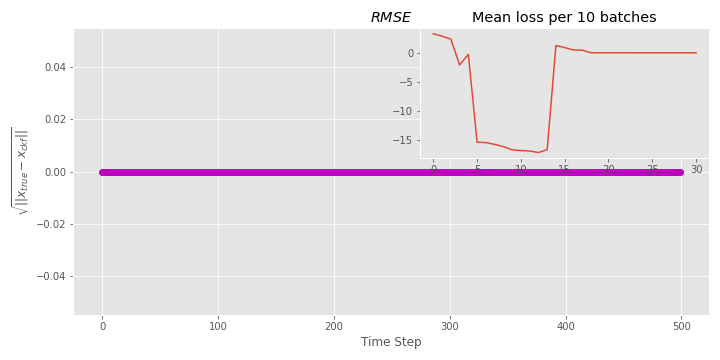
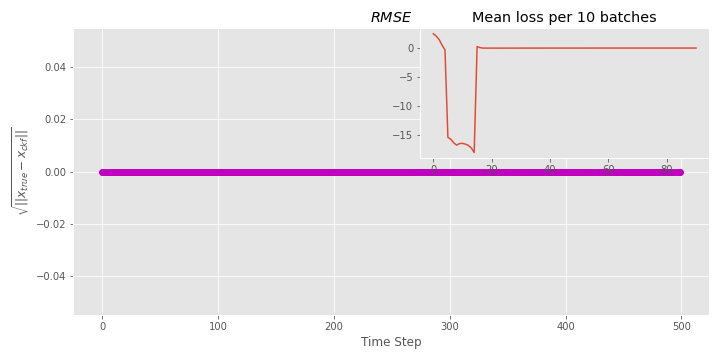
working benchmarks methods

diff --git a/AIRL_single_agent.py b/AIRL_single_agent.py
@@ -78,7 +78,7 @@ parser.add_argument('--frame_skip',default=4,type=int, help='Save the images at 
 parser.add_argument('--dt_ckf', default=0.1,type=float, help='Frequency at which the radar receives measurements and updated Cubature Kalman Filter')
 parser.add_argument('--dt_control', default=0.1,type=float,help='Frequency at which the control optimization problem occurs with MPPI')
 parser.add_argument('--N_radar',default=1,type=int,help="The number of radars in the experiment")
-parser.add_argument("--N_steps",default=200,type=int,help="The number of steps in the experiment. Total real time duration of experiment is N_steps x dt_ckf")
+parser.add_argument("--N_steps",default=500,type=int,help="The number of steps in the experiment. Total real time duration of experiment is N_steps x dt_ckf")
 parser.add_argument('--results_savepath', default="results",type=str, help='Folder to save bigger results folder')
 parser.add_argument('--experiment_name', default="experiment",type=str, help='Name of folder to save temporary images to make GIFs')
 parser.add_argument('--move_radars', action=argparse.BooleanOptionalAction,default=True,help='Do you wish to allow the radars to move? --move_radars for yes --no-move_radars for no')
@@ -87,6 +87,7 @@ parser.add_argument('--tail_length',default=10,type=int,help="The length of the 
 parser.add_argument('--save_images', action=argparse.BooleanOptionalAction,default=True,help='Do you wish to saves images/gifs? --save_images for yes --no-save_images for no')
 parser.add_argument('--fim_method_policy', default="SFIM_NN",type=str, help='FIM Calculation [SFIM,PFIM]')
 parser.add_argument('--fim_method_demo', default="SFIM",type=str, help='FIM Calculation [SFIM,PFIM]')
+parser.add_argument('--gail', default=True,type=bool, help='gail metod flag')
 
 # ==================== RADAR CONFIGURATION ======================== #
 parser.add_argument('--fc', default=1e8,type=float, help='Radar Signal Carrier Frequency (Hz)')
@@ -172,7 +173,7 @@ variables = cost_f.init(init_rng, jnp.ones((1,state_shape[0])))
 params = variables['params']
 #params['Dense_0']['bias']=jnp.ones(params['Dense_0']['bias'].shape)
 #params['Dense_0']['kernel']=jnp.identity(params['Dense_0']['kernel'].shape[0])
-tx = optax.adam(learning_rate=1e-3)
+tx = optax.adam(learning_rate=1e-4)
 state_train=train_state.TrainState.create(apply_fn=cost_f.apply, params=params, tx=tx)
 
 mean_rewards = []

diff --git a/experts/P_MPPI.py b/experts/P_MPPI.py
@@ -175,7 +175,7 @@ class P_MPPI:
             IM_fn_update = IM_fn
 
 
-        MPC_obj = MPC_decorator(IM_fn=IM_fn,kinematic_model=kinematic_model,dt=args.dt_control,gamma=args.gamma,method=mpc_method,state_train=state_train,thetas=thetas)
+        MPC_obj = MPC_decorator(IM_fn=IM_fn,kinematic_model=kinematic_model,dt=args.dt_control,gamma=args.gamma,method=mpc_method,state_train=state_train,thetas=thetas,gail=args.gail)
         #MPC_obj = MPC_decorator(IM_fn=IM_fn,kinematic_model=kinematic_model,dt=args.dt_control,gamma=args.gamma,method=mpc_method)
         MPPI_scores = MPPI_scores_wrapper(MPC_obj)
 
@@ -191,7 +191,7 @@ class P_MPPI:
         chis = jax.random.uniform(key,shape=(ps.shape[0],1),minval=-jnp.pi,maxval=jnp.pi) #jnp.tile(0., (ps.shape[0], 1, 1))
         # dt_controls = jnp.tile(dt_control, (N, 1))
 
-        collision_penalty_vmap = jit( vmap(collision_penalty, in_axes=(0, None, None)))
+        collision_penalty_vmap = jit( vmap(collision_penalty, in_axes=(0, None, None,None,None,None)))
         self_collision_penalty_vmap = jit(vmap(self_collision_penalty, in_axes=(0, None)))
         speed_penalty_vmap = jit(vmap(speed_penalty, in_axes=(0, None)))
 
@@ -292,9 +292,14 @@ class P_MPPI:
                     
 
                     mppi_score_end = time()
+                    cost_collision_r2t = collision_penalty_vmap(radar_states_MPPI[...,1:args.horizon+1,:], target_states_rollout,
+                                           demo_x_min,demo_x_max,demo_y_min,demo_y_max)
+
+                    cost_collision_r2t = jnp.sum((cost_collision_r2t * args.gamma**(jnp.arange(args.horizon))) / jnp.sum(args.gamma**jnp.arange(args.horizon)),axis=-1)
+
                     
                     #cost_MPPI = args.alpha1*cost_trajectory + args.alpha2*cost_collision_r2t + args.alpha3 * cost_collision_r2r * args.temperature * (1-args.alpha4) * cost_control + args.alpha5*cost_speed
-                    cost_MPPI = args.alpha1*cost_trajectory
+                    cost_MPPI = args.alpha1*cost_trajectory + args.alpha2*cost_collision_r2t
 
                     weights = weight_fn(cost_MPPI)
 

diff --git a/src_range/FIM_new/generate_demo_fn.py b/src_range/FIM_new/generate_demo_fn.py
@@ -825,18 +825,18 @@ def generate_demo_MPPI_single(args,state_train):
 
        np.savetxt(os.path.join(args.results_savepath,f'rmse_{args.seed}.csv'), np.c_[np.arange(1,args.N_steps+1),target_state_mse], delimiter=',',header="k,rmse",comments='')
 
-       if args.save_images:
-           visualize_target_mse(target_state_mse,fig_mse,axes_mse,args.results_savepath,filename="target_mse")
+       # if args.save_images:
+       #     visualize_target_mse(target_state_mse,fig_mse,axes_mse,args.results_savepath,filename="target_mse")
 
-           images = [imageio.imread(file) for file in imgs_main]
-           imageio.mimsave(os.path.join(args.results_savepath, f'MPPI_MPC_AIS={args.AIS_method}_FIM={args.fim_method_demo}.gif'), images, duration=0.1)
+       #     images = [imageio.imread(file) for file in imgs_main]
+       #     imageio.mimsave(os.path.join(args.results_savepath, f'MPPI_MPC_AIS={args.AIS_method}_FIM={args.fim_method_demo}.gif'), images, duration=0.1)
 
-           images = [imageio.imread(file) for file in imgs_control]
-           imageio.mimsave(os.path.join(args.results_savepath, f'MPPI_Control_AIS={args.AIS_method}.gif'), images, duration=0.1)
+       #     images = [imageio.imread(file) for file in imgs_control]
+       #     imageio.mimsave(os.path.join(args.results_savepath, f'MPPI_Control_AIS={args.AIS_method}.gif'), images, duration=0.1)
 
 
-           if args.remove_tmp_images:
-               shutil.rmtree(args.tmp_img_savepath)
+       #     if args.remove_tmp_images:
+       #         shutil.rmtree(args.tmp_img_savepath)
     
        return traj_list , traj_sindy_list
    

diff --git a/cost_jax.py b/cost_jax.py
@@ -109,8 +109,11 @@ def apply_model_AIRL(state_train, states, actions,states_expert,actions_expert,p
         distances=states[:,:3]-states[:,3:]
         costs_demo = -jnp.log(state_train.apply_fn({'params': params}, distances_expert)+1e-6)
         costs_samp =-jnp.log(state_train.apply_fn({'params': params}, distances)+1e-6)
-        disc_demo = jnp.exp(costs_demo)/(jnp.exp(costs_demo)+1)
-        disc_samp =jnp.exp(costs_samp)/(jnp.exp(costs_samp)+1)
+        
+        disc_demo = jnp.divide(jnp.exp(-costs_demo),(jnp.exp(-costs_demo)+1))
+        disc_samp = jnp.divide(jnp.exp(-costs_samp),(jnp.exp(-costs_samp)+1))
+        
+
       # LOSS CALCULATION FOR IOC (COST FUNCTION)
       #logits = state_train.apply_fn({'params': params}, jnp.concatenate((states,actions),axis=1))
         # g_demo=jnp.zeros(costs_demo.shape)
@@ -124,7 +127,7 @@ def apply_model_AIRL(state_train, states, actions,states_expert,actions_expert,p
         #     g_samp=g_samp.at[i].set(jnp.pow((costs_samp[i]-costs_samp[i-1])-(costs_samp[i-1]-costs_samp[i-2]),2))
         #     g_mono_samp=g_mono_samp.at[i].set(jnp.pow(jnp.maximum(0,costs_samp[i]-costs_samp[i-1]-1),2))  
          
-        loss = -jnp.mean(jnp.log(disc_demo))-jnp.mean(jnp.log(1-disc_samp))
+        loss = -jnp.mean(jnp.log(disc_demo+1e-6))-jnp.mean(jnp.log(1-disc_samp+1e-6))
               
         return loss
       

diff --git a/src_range/objective_fns/objectives.py b/src_range/objective_fns/objectives.py
@@ -10,7 +10,7 @@ from jax import jit,vmap
 
 import jax
 from jax.tree_util import Partial as partial
-def MPC_decorator(IM_fn,kinematic_model,dt,gamma,state_train=None,thetas=None,method="action"):
+def MPC_decorator(IM_fn,kinematic_model,dt,gamma,state_train=None,thetas=None,method="action",gail=False):
 
     # the lower this value, the better!
 
@@ -94,10 +94,15 @@ def MPC_decorator(IM_fn,kinematic_model,dt,gamma,state_train=None,thetas=None,me
                 logdets = jnp.log(Js)
             else :
                 _,logdets = jnp.linalg.slogdet(Js)
+            
             gammas = gamma**(jnp.arange(horizon))
             multi_FIM_obj = jnp.sum(gammas*logdets)/jnp.sum(gammas)
-
-            return -multi_FIM_obj
+            cost=-multi_FIM_obj
+            if gail==True:
+                D=jnp.divide(jnp.exp(-cost),(jnp.exp(-cost)+1))
+                cost = jnp.log(D)
+            
+            return cost
         
     elif method=="Single_FIM_3D_action_features_MPPI":
         @jit

diff --git a/Guided_cost_MPPI_single_agent.py b/Guided_cost_MPPI_single_agent.py
@@ -87,6 +87,7 @@ parser.add_argument('--tail_length',default=10,type=int,help="The length of the 
 parser.add_argument('--save_images', action=argparse.BooleanOptionalAction,default=True,help='Do you wish to saves images/gifs? --save_images for yes --no-save_images for no')
 parser.add_argument('--fim_method_policy', default="SFIM_NN",type=str, help='FIM Calculation [SFIM,PFIM]')
 parser.add_argument('--fim_method_demo', default="SFIM",type=str, help='FIM Calculation [SFIM,PFIM]')
+parser.add_argument('--gail', default=False,type=bool, help='gail metod flag')
 
 # ==================== RADAR CONFIGURATION ======================== #
 parser.add_argument('--fc', default=1e8,type=float, help='Radar Signal Carrier Frequency (Hz)')

diff --git a/src_range/FIM_new/FIM_RADAR.py b/src_range/FIM_new/FIM_RADAR.py
@@ -43,10 +43,12 @@ def Single_FIM_Radar(radar_state,target_state,C,J=None,method=None,state_train=N
        #states=jnp.concatenate((radar_positions.reshape(1,-1),target_positions.reshape(1,-1)),axis=1)
        states=d.reshape(1,-1)
        J = state_train.apply_fn({'params': state_train.params}, states)+1e-6
+      
        
        return J
    
-    
+
+   
     if method=="features":
        # radar_positions = radar_state[:,:3]
    
